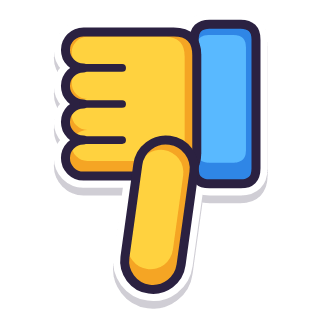
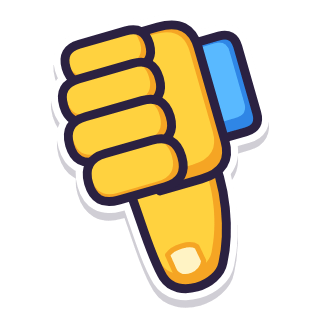
Redraw cry, laugh, thinking, thumbs and shrug stickers
Cry gets flowing tear streams that widen into drops and a puddle, sad
brows and an open wailing mouth. Laugh's tears of joy now spring from
the outer eye corners with a slight head tilt. Thinking uses the chin
cradle pose. Thumbs up/down are a chunky curled fist with a thick
nailed thumb and the cuff at the wrist; thumbs-down is its rotation.
Shrug shows palms up at shoulder height with a smirk.

diff --git a/tools/stickers/art.js b/tools/stickers/art.js
@@ -145,14 +145,21 @@ function openHand(col = C.yellow, o = {}) {
   ];
 }
 const motion = (d) => shape('path', { d }, { f: 'none', s: INK, w: 7 });
+// A chunky thumbs-up fist, drawn level (wrist on the left, fingers curled
+// toward the viewer, thumb up) and tilted by the sticker. `flip` turns the
+// shading around for the upside-down thumbs-down.
 function thumbHand(flip) {
   const off = flip ? [3, 4] : [-3, -4];
-  const fist = 'M98 112H168A14 14 0 0 1 168 140A14 14 0 0 1 168 168A14 14 0 0 1 168 196A14 14 0 0 1 168 224H98Q80 224 80 206V130Q80 112 98 112Z';
+  const fingers = [[176, 112, 38], [182, 146, 36], [178, 178, 34], [168, 208, 30]].reverse();
   return [
-    toon('path', { d: rrect(34, 106, 48, 124, 12) }, C.blue, { c: [58, 168], k: 0.8, off }),
-    toon('path', { d: fist }, C.yellow, { c: [126, 168], k: 0.86, off }),
-    ink('M138 140H168M138 168H168M138 196H168', 6),
-    toon('path', { d: capsule(104, 118, 114, 46, 22) }, C.yellow, { c: [109, 82], k: 0.8, off }),
+    // Cuff at the wrist end, narrower than the fist.
+    toon('path', { d: 'M34 148Q34 136 46 136H72V214H46Q34 214 34 202Z' }, C.blue, { c: [53, 175], k: 0.78, off }),
+    // The thumb grows out of the top of the fist: wide base, rounded tip, nail.
+    toon('path', { d: 'M78 130C72 100 80 64 92 42C100 26 134 24 140 44C146 66 144 100 148 128Z' }, C.yellow, { c: [112, 84], k: 0.84, off }),
+    shape('path', { d: 'M106 48C109 38 126 36 130 46L132 60C126 65 112 65 108 60Z' }, { f: '#fff3c4', s: C.yellow[1], w: 4, n: true }),
+    // The back of the hand, then the curled fingers stacked on its front.
+    toon('path', { d: 'M64 134Q64 110 90 110H124V234H90Q64 234 64 210Z' }, C.yellow, { c: [94, 172], k: 0.86, off }),
+    fingers.map(([x2, y, h]) => toon('path', { d: rrect(100, y, x2 - 100, h, h / 2) }, C.yellow, { c: [(100 + x2) / 2, y + h / 2], k: 0.86, off: flip ? [2, 3] : [-2, -3] })),
   ];
 }
 // Party popper stripes: bands across the cone between fractions t1..t2.
@@ -176,6 +183,45 @@ const plate = (x, y, w, h, col = C.white) => toon('path', { d: rrect(x, y, w, h,
 const hexArm = (x1, y1, x2, y2) => toon('path', { d: capsule(x1, y1, x2, y2, 11) }, C.purple, { c: [(x1 + x2) / 2, (y1 + y2) / 2], k: 0.7, off: [-1, -2] });
 const zzz = (x, y, s, col = C.blue[0]) => lettering('Z', x, y, s, col, { w: 14, edge: 5, shine: false });
 
+// A tapered stream along a smooth centre line (tears): `pts` are
+// [x, y, width] samples, start to end. Both ends are rounded, so a stream that
+// widens toward its end finishes in a drop.
+function smoothThrough(P) {
+  let d = '';
+  for (let i = 0; i < P.length - 1; i++) {
+    const p0 = P[Math.max(0, i - 1)], p1 = P[i], p2 = P[i + 1], p3 = P[Math.min(P.length - 1, i + 2)];
+    const c1 = [p1[0] + (p2[0] - p0[0]) / 6, p1[1] + (p2[1] - p0[1]) / 6];
+    const c2 = [p2[0] - (p3[0] - p1[0]) / 6, p2[1] - (p3[1] - p1[1]) / 6];
+    d += `C${r2(c1[0])} ${r2(c1[1])} ${r2(c2[0])} ${r2(c2[1])} ${r2(p2[0])} ${r2(p2[1])}`;
+  }
+  return d;
+}
+const r2 = (n) => Math.round(n * 10) / 10;
+function ribbon(pts) {
+  const left = [];
+  const right = [];
+  pts.forEach(([x, y, w], i) => {
+    const a = pts[Math.max(0, i - 1)];
+    const b = pts[Math.min(pts.length - 1, i + 1)];
+    const len = Math.hypot(b[0] - a[0], b[1] - a[1]) || 1;
+    const nx = -(b[1] - a[1]) / len;
+    const ny = (b[0] - a[0]) / len;
+    left.push([x + nx * w / 2, y + ny * w / 2]);
+    right.push([x - nx * w / 2, y - ny * w / 2]);
+  });
+  // Round caps: pick the arc direction that bulges away from the stream.
+  const cap = (from, to, [cx, cy, w], dir) => {
+    const cross = (from[0] - cx) * dir[1] - (from[1] - cy) * dir[0];
+    return `A${r2(w / 2)} ${r2(w / 2)} 0 0 ${cross > 0 ? 1 : 0} ${r2(to[0])} ${r2(to[1])}`;
+  };
+  const n = pts.length - 1;
+  const endDir = [pts[n][0] - pts[n - 1][0], pts[n][1] - pts[n - 1][1]];
+  const startDir = [pts[0][0] - pts[1][0], pts[0][1] - pts[1][1]];
+  return `M${r2(left[0][0])} ${r2(left[0][1])}${smoothThrough(left)}${cap(left[n], right[n], pts[n], endDir)}`
+    + `${smoothThrough(right.slice().reverse())}${cap(right[0], left[0], pts[0], startDir)}Z`;
+}
+const tearStream = (pts, o = {}) => toon('path', { d: ribbon(pts) }, C.blue, { c: [pts[pts.length - 1][0], pts[pts.length - 1][1]], k: 0.78, off: [-1, -2], w: o.w ?? 6, n: o.n });
+
 // ── Stickers ──────────────────────────────────────────────
 const HEART = 'M128 218C70 182 30 146 32 98C34 62 62 42 90 44C108 45 120 56 128 72C136 56 148 45 166 44C194 42 222 62 224 98C226 146 186 182 128 218Z';
 // Each entry returns a renderer so build.js can pass the fitted transform.
@@ -183,8 +229,8 @@ const sticky = (shapes, css) => (o = {}) => sticker(shapes, { ...o, css: css && 
 
 const art = {
   // ── Reactions ──
-  'thumbs-up': () => sticky([thumbHand(false)]),
-  'thumbs-down': () => sticky([{ tr: 'rotate(180 128 128)', shapes: thumbHand(true) }]),
+  'thumbs-up': () => sticky([{ tr: 'rotate(-16 120 140)', shapes: thumbHand(false) }]),
+  'thumbs-down': () => sticky([{ tr: 'rotate(180 128 128) rotate(-16 120 140)', shapes: thumbHand(true) }]),
 
   heart: () => sticky([{ cls: 'b', shapes: [toon('path', { d: HEART }, C.red, { c: [128, 120], k: 0.84, off: [-5, -7] }), shine(76, 86, 16, 9, -40)] }],
     [['b', '0%,40%,100%{transform:scale(1)}12%{transform:scale(1.09)}24%{transform:scale(.97)}32%{transform:scale(1.05)}', 1.4, '128px 140px']]),
@@ -217,17 +263,28 @@ const art = {
     return sticky([[eye(80), eye(178)]]);
   },
 
-  laugh: () => sticky([{ cls: 'j', shapes: [face(), squintEyes(104, 38), openMouth(128, 136, 52, 58), tear(42, 116, 0.9), tear(214, 116, 0.9)] }],
-    [['j', '0%,100%{transform:rotate(0)}25%{transform:rotate(-5deg)}75%{transform:rotate(5deg)}', 0.5, '128px 200px']]),
-
-  cry: () => sticky([[
+  laugh: () => sticky([{ cls: 'j', tr: 'rotate(-10 128 128)', shapes: [
     face(),
-    ink('M70 92Q86 72 108 76', 8), ink('M186 92Q170 72 148 76', 8),
-    closedEyes(112, 36, 128, 16, 8).map((x) => x),
-    stroke('M92 124C88 150 96 178 88 214', C.blue[0], 16, { edge: 5, n: true }),
-    stroke('M164 124C168 150 160 178 168 214', C.blue[0], 16, { edge: 5, n: true }),
-    ink('M104 176Q116 162 128 172Q140 162 152 176', 8),
-  ]]),
+    ink('M70 82Q88 66 106 78', 8), ink('M150 78Q168 66 186 82', 8),
+    squintEyes(108, 38),
+    openMouth(128, 138, 54, 60),
+    // Tears of joy spring from the outer corner of each squeezed eye.
+    tearStream([[76, 104, 7], [60, 92, 10], [42, 92, 13], [30, 104, 17], [26, 124, 22]]),
+    tearStream([[180, 104, 7], [196, 92, 10], [214, 92, 13], [226, 104, 17], [230, 124, 22]]),
+  ] }], [['j', '0%,100%{transform:rotate(0)}25%{transform:rotate(-5deg)}75%{transform:rotate(5deg)}', 0.5, '128px 200px']]),
+
+  cry: () => sticky([
+    // A puddle under the chin, then the face, then two sobbing streams.
+    [toon('ellipse', { cx: 128, cy: 222, rx: 104, ry: 18 }, C.blue, { c: [128, 222], k: 0.9, off: [-2, -3] })],
+    [ball(128, 118, 94, C.yellow),
+      ink('M64 88Q82 70 106 68', 9), ink('M192 88Q174 70 150 68', 9),
+      ink('M78 114Q93 100 108 114', 9), ink('M178 114Q163 100 148 114', 9),
+      tearStream([[93, 118, 10], [86, 140, 13], [80, 162, 16], [80, 184, 19], [70, 204, 22], [66, 222, 27]]),
+      tearStream([[163, 118, 10], [170, 140, 13], [176, 162, 16], [176, 184, 19], [186, 204, 22], [190, 222, 27]]),
+      shape('path', { d: 'M106 162Q117 150 128 158Q139 150 150 162C154 184 144 200 128 200C112 200 102 184 106 162Z' }, { f: '#5b2338', n: true }),
+      fillInk('path', { d: 'M112 190Q128 176 144 190Q138 200 128 200Q118 200 112 190Z' }, '#ff6f8e'),
+      shape('path', { d: 'M106 162Q117 150 128 158Q139 150 150 162C154 184 144 200 128 200C112 200 102 184 106 162Z' }, { f: 'none', s: INK, w: 7, n: true })],
+  ]),
 
   'mind-blown': () => sticky([[
     ball(128, 154, 82, C.yellow),
@@ -270,8 +327,17 @@ const art = {
   ]),
 
   thinking: () => sticky([
-    [face(), ink('M72 82Q88 76 104 82', 8), ink('M150 70Q168 58 186 72', 8), dotEyes(112, 34, 128, 11, 16, [4, -2]), ink('M122 170Q144 166 164 156', 8)],
-    { tr: 'translate(80 246) rotate(-12)', shapes: [toon('path', { d: capsule(6, -46, 24, -94, 12) }, C.yellow, { c: [15, -70], k: 0.7, off: [-2, -2] }), toon('path', { d: rrect(-34, -58, 66, 50, 22) }, C.yellow, { c: [0, -33], k: 0.84, off: [-3, -3] }), ink('M-20 -40H8M-20 -24H8', 5)] },
+    [ball(134, 118, 94, C.yellow),
+      ink('M82 78L114 88', 9), ink('M150 66Q170 50 192 66', 9),
+      dotEyes(114, 32, 134, 11, 16, [5, -3]),
+      ink('M128 160Q152 156 178 142', 9)],
+    // The 🤔 hand: knuckles below the chin, the thumb along the jaw and the
+    // index finger up the cheek, cradling the chin.
+    [toon('path', { d: 'M52 214C46 196 56 180 74 178L104 176C116 176 122 186 120 198L116 218C114 230 104 236 92 236H70C60 236 54 228 52 214Z' }, C.yellow, { c: [86, 206], k: 0.84, off: [-3, -3] }),
+      ink('M64 210Q74 214 84 210M68 224Q78 226 88 222', 5),
+      toon('path', { d: capsule(80, 186, 88, 162, 13) }, C.yellow, { c: [84, 174], k: 0.74, off: [-2, -3] }),
+      toon('path', { d: capsule(104, 194, 152, 180, 13) }, C.yellow, { c: [128, 187], k: 0.74, off: [-2, -3] }),
+      shape('path', { d: 'M152 176C160 176 162 186 154 188L146 188C143 184 143 179 146 176Z' }, { f: '#fff3c4', s: C.yellow[1], w: 3, n: true })],
   ]),
 
   facepalm: () => sticky([
@@ -285,9 +351,13 @@ const art = {
   ]),
 
   shrug: () => sticky([
-    [ball(128, 112, 82, C.yellow), ink('M78 76Q94 64 110 72', 8), ink('M146 72Q162 64 178 76', 8), dotEyes(100, 28, 128, 10, 14, [5, 0]), ink('M104 146Q124 146 152 134', 8)],
-    { tr: 'translate(92 220) rotate(-45) scale(.46)', shapes: openHand(C.yellow) },
-    { tr: 'translate(164 220) rotate(45) scale(.46) scale(-1 1)', shapes: openHand(C.yellow) },
+    [ball(128, 104, 80, C.yellow),
+      ink('M80 66Q96 52 114 60', 8), ink('M142 56Q160 44 178 58', 8),
+      dotEyes(96, 28, 128, 10, 14, [6, -1]),
+      ink('M106 134Q126 140 152 124', 8)],
+    // Palms up at shoulder height, fingers out, thumbs up.
+    { tr: 'translate(64 194) rotate(-80) scale(.72)', shapes: mitten(C.yellow, { thumb: 1, len: 104, w: 64, cuff: C.blue }) },
+    { tr: 'translate(192 194) rotate(80) scale(.72)', shapes: mitten(C.yellow, { thumb: -1, len: 104, w: 64, cuff: C.blue }) },
   ]),
 
   wave: () => sticky([
